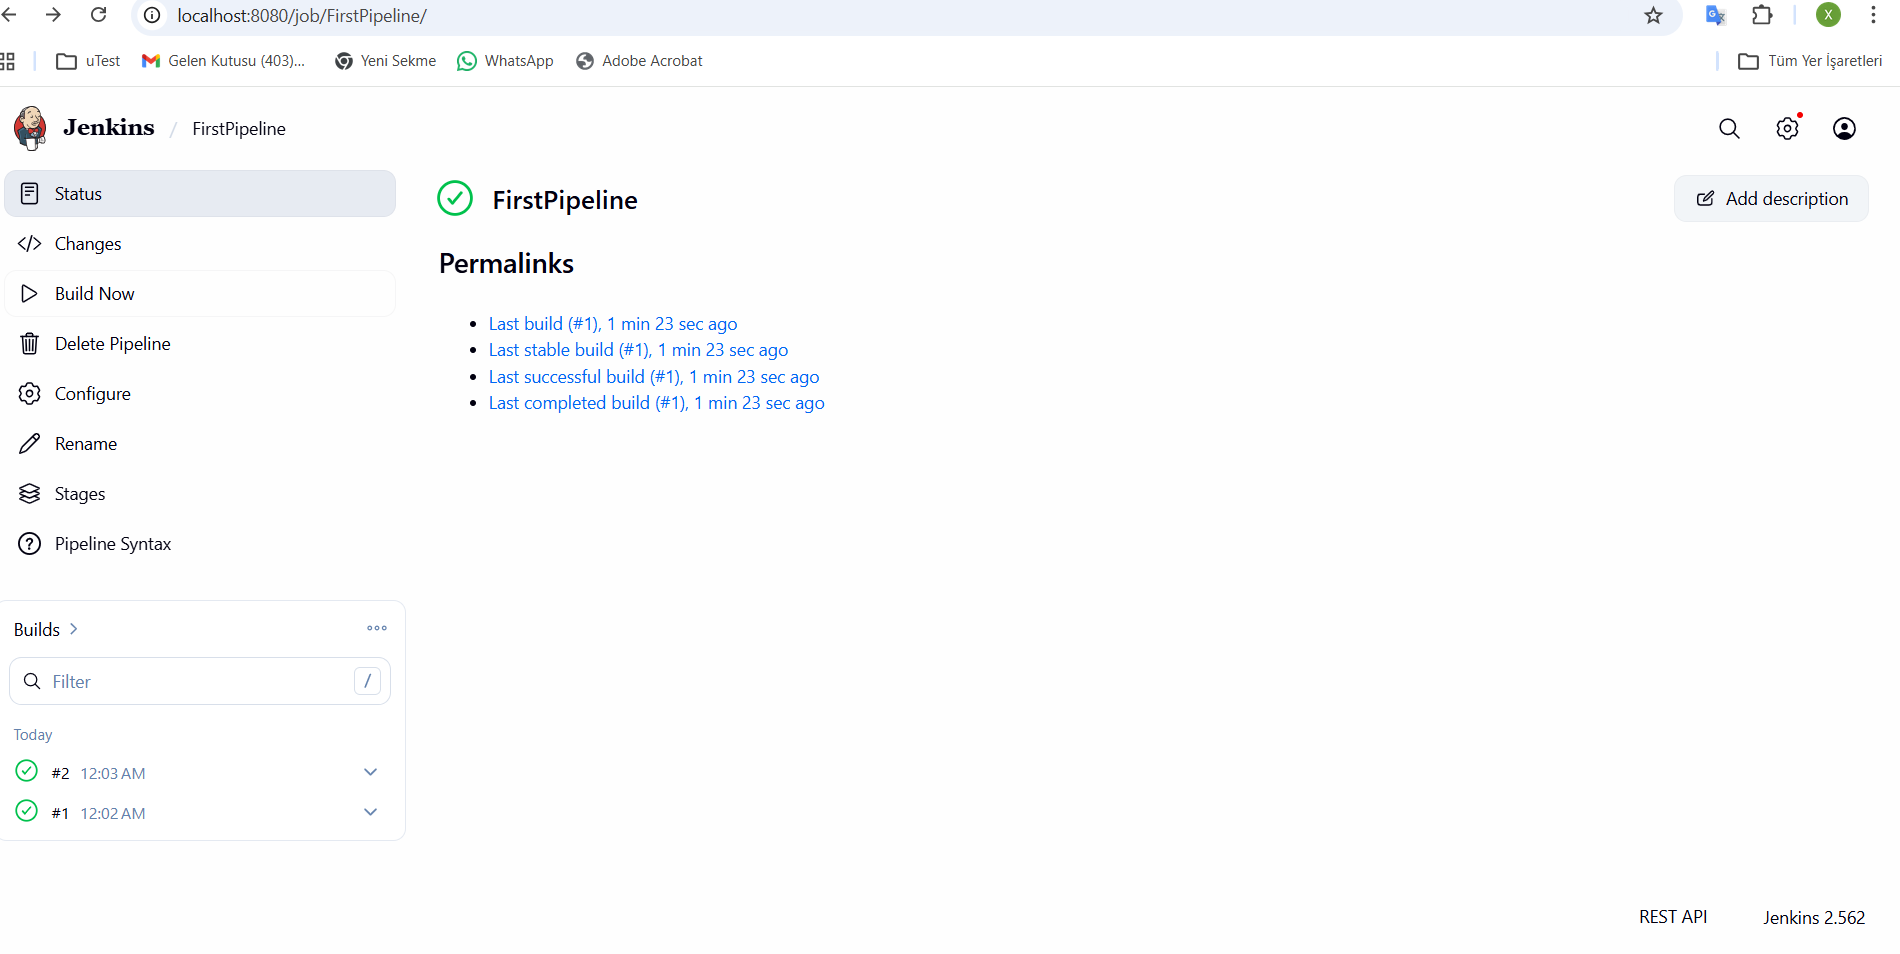
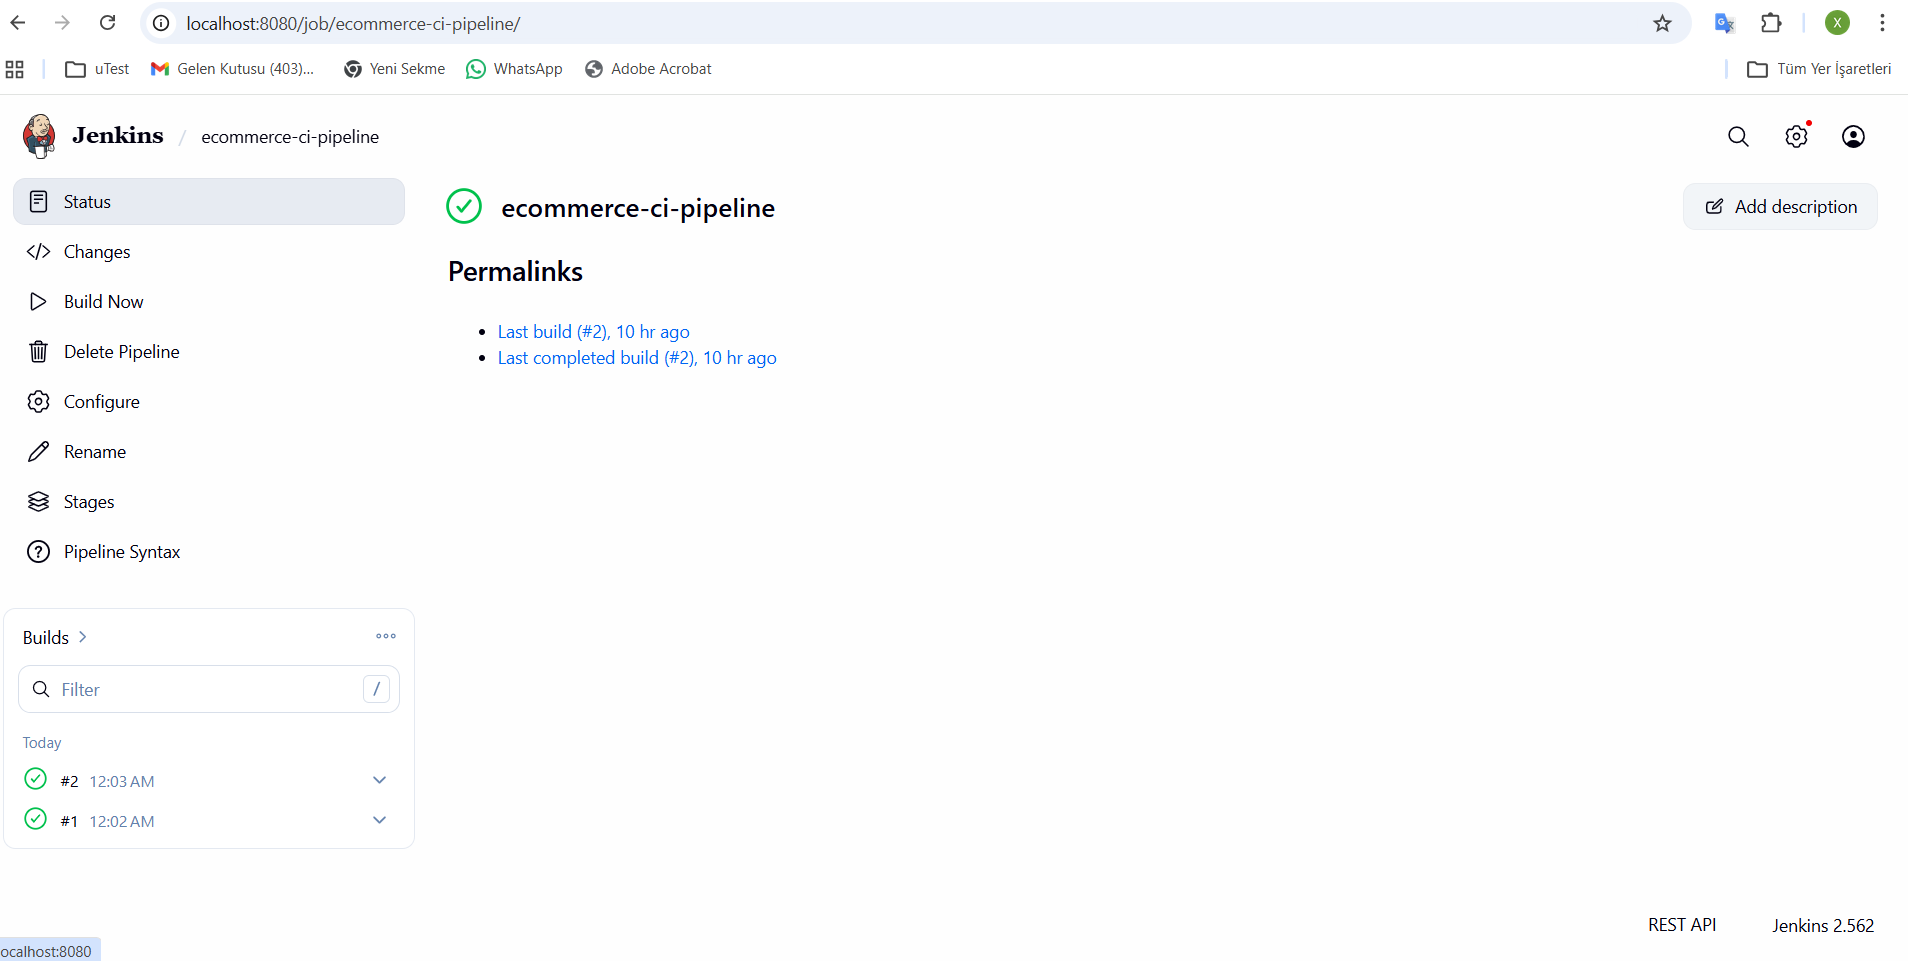
Added Jenkins screenshot and updated README

diff --git a/README.md b/README.md
@@ -1,18 +1,149 @@
+# 🧪 Web Shop Test Automation Framework
+
+A **UI + API Test Automation Framework** built using **Java, Selenium WebDriver, TestNG, and Rest Assured**, following the **Page Object Model (POM)** design pattern.
+
+This project demonstrates real-world automation skills covering both **frontend (UI)** and **backend (API)** testing, along with **CI/CD integration using Jenkins**.
+
+---
+
+## 🚀 Tech Stack
+
+* Java 17
+* Selenium WebDriver
+* TestNG
+* Rest Assured (API Testing)
+* Maven
+* ExtentReports
+* Jenkins (CI/CD)
+
+---
+
+## 🌐 Application Under Test
+
+**UI:**
+https://demowebshop.tricentis.com
+
+**API:**
+https://reqres.in
+
+---
+
+## 🏗 Framework Design
+
+* Page Object Model (POM) for UI automation
+* Separate API layer using Rest Assured
+* Reusable **BaseTest** for setup and teardown
+* Centralized configuration management
+* Extensible and maintainable architecture
+* Integrated reporting with ExtentReports
+
+---
+
+## 🔄 CI/CD Integration
+
+This project is integrated with **Jenkins** for continuous integration.
+
+* Automated test execution via pipeline
+* GitHub repository integration
+* Scalable for future CI/CD improvements
+
+![Jenkins Pipeline](jenkins.png)
+
+---
+
+## 📁 Project Structure
+
+```
+src
+├── main/java
+│   ├── pages        # UI Page Objects
+│   ├── api          # API client classes
+│   ├── config       # Config reader
+│   └── utils        # Helpers & reporting
+│
+├── test/java
+│   ├── ui_tests     # UI test cases
+│   └── api_tests    # API test cases
+│
+└── base             # BaseTest (setup/teardown)
+
+test-output           # Test reports
+pom.xml               # Dependencies
+```
+
+---
+
+## 🧪 Test Coverage
+
+### UI Tests
+
+* User Registration
+* Login / Logout
+* Add to Cart
+* Remove from Cart
+
+### API Tests
+
+* GET user details
+* POST login / authentication
+* Validate response status codes
+* Basic response validation
+
+---
+
+## ⚙ Key Features
+
+* Combined **UI + API automation framework**
+* Page Object Model (POM) architecture
+* Reusable test setup (BaseTest)
+* REST API automation using Rest Assured
+* HTML reporting with ExtentReports
+* CI/CD integration with Jenkins
+* Scalable and maintainable design
+
+---
+
+## 📊 Reporting
+
+ExtentReports generates detailed HTML reports including:
+
+* Test status (Pass / Fail / Skip)
+* API request & response logs
+* UI step logs
+* Execution time
+* Error details with stack trace
+
+---
+
+## ▶ How to Run Tests
+
+### IntelliJ IDEA
+
+Run tests from:
+
+* `ui_tests` package
+* `api_tests` package
+
+### Maven CLI
+
+```
+mvn clean test
+```
 
 ---
 
 ## 🔮 Future Improvements
 
-- Data-driven testing (JSON / Excel)
-- Parallel test execution
-- Cross-browser testing
-- Advanced API validation (schema & contract testing)
-- Docker integration
-- Enhanced CI/CD pipelines
+* Data-driven testing (JSON / Excel)
+* Parallel test execution
+* Cross-browser testing
+* Advanced API validation (schema & contract testing)
+* Docker integration
+* Enhanced CI/CD pipelines
 
 ---
 
 ## 👩💻 Author
 
-**QA Automation Engineer**  
+**QA Automation Engineer**
 Manual Testing | Selenium | Java | TestNG | POM | API Testing (Rest Assured) | Jenkins
